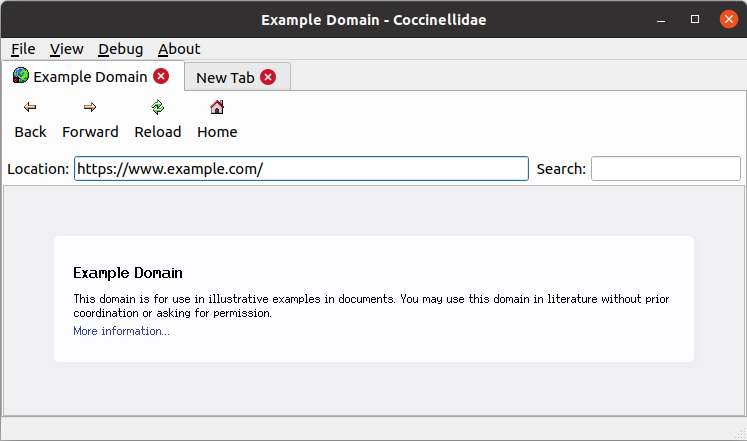
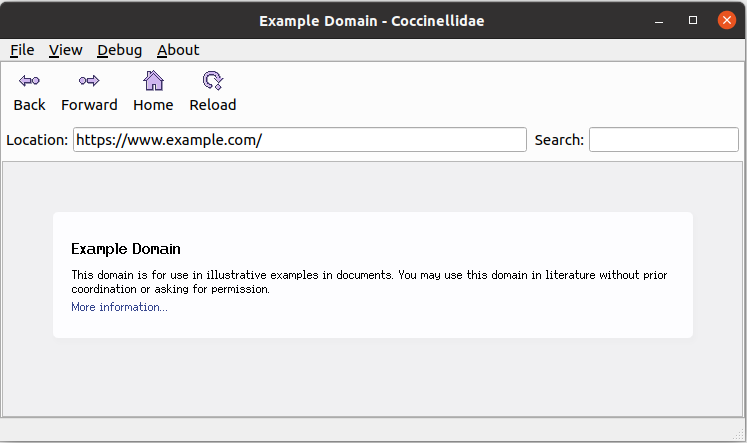
Open maximized, fix Ctrl+U, change some shortcuts to QKeySequence::StandardKey

diff --git a/Tab.cpp b/Tab.cpp
@@ -19,7 +19,7 @@ Tab::Tab(QMainWindow* window)
 {
     m_layout = new QBoxLayout(QBoxLayout::Direction::TopToBottom, this);
     m_layout->setContentsMargins(0, 0, 0, 0);
-    m_layout->setSpacing(0);
+    m_layout->setSpacing(0); //FIXME: Need to set spacing to 0 between QToolBar & QToolBar :^)
 
     m_view = new WebView;
     m_toolbar = new QToolBar;
@@ -40,27 +40,29 @@ Tab::Tab(QMainWindow* window)
 
     m_layout->addWidget(m_toolbar_buttons);
     m_layout->addWidget(m_toolbar);
+    m_layout->addSpacing(5);
     m_layout->addWidget(m_view);
 
-    auto back_icon_path = QString("%1/res/icons/16x16/go-back.png").arg(s_serenity_resource_root.characters());
-    auto forward_icon_path = QString("%1/res/icons/16x16/go-forward.png").arg(s_serenity_resource_root.characters());
-    auto home_icon_path = QString("%1/res/icons/16x16/go-home.png").arg(s_serenity_resource_root.characters());
-    auto reload_icon_path = QString("%1/res/icons/16x16/reload.png").arg(s_serenity_resource_root.characters());
+    auto back_icon_path = QString("../icons/back.png");
+    auto forward_icon_path = QString("../icons/forward.png");
+    auto home_icon_path = QString("../icons/home.png");
+    //auto reload_icon_path = QString("%1/res/icons/16x16/reload.png").arg(s_serenity_resource_root.characters());
+    auto reload_icon_path = QString("../icons/reload.png");
     m_back_action = make<QAction>(QIcon(back_icon_path), "Back");
-    m_back_action->setShortcut(QKeySequence("Alt+Left"));
+    m_back_action->setShortcut(QKeySequence(QKeySequence::Back)); // "Alt+Left"
     m_forward_action = make<QAction>(QIcon(forward_icon_path), "Forward");
-    m_forward_action->setShortcut(QKeySequence("Alt+Right"));
+    m_forward_action->setShortcut(QKeySequence(QKeySequence::Forward)); // "Alt+Right"
     m_home_action = make<QAction>(QIcon(home_icon_path), "Home");
     m_reload_action = make<QAction>(QIcon(reload_icon_path), "Reload");
-    m_reload_action->setShortcut(QKeySequence("Ctrl+R"));
+    m_reload_action->setShortcut(QKeySequence(QKeySequence::Refresh)); // "Ctrl+R"
 
     auto m_location_label = new QLabel("Location: ");
     auto m_search_label = new QLabel("  Search: ");
 
     m_toolbar_buttons->addAction(m_back_action);
     m_toolbar_buttons->addAction(m_forward_action);
-    m_toolbar_buttons->addAction(m_reload_action);
     m_toolbar_buttons->addAction(m_home_action);
+    m_toolbar_buttons->addAction(m_reload_action);
     m_toolbar->addWidget(m_location_label);
     m_toolbar->addWidget(m_location_edit);
     m_toolbar->addWidget(m_search_label);

diff --git a/BrowserWindow.cpp b/BrowserWindow.cpp
@@ -27,7 +27,7 @@ BrowserWindow::BrowserWindow(Core::EventLoop& event_loop)
     auto* menu = menuBar()->addMenu("&File");
 
     auto* new_tab_action = new QAction("New &Tab");
-    new_tab_action->setShortcut(QKeySequence("Ctrl+T"));
+    new_tab_action->setShortcut(QKeySequence(QKeySequence::AddTab)); // "Ctrl+N"
     menu->addAction(new_tab_action);
 
     auto* quit_action = new QAction("&Quit");
@@ -38,7 +38,7 @@ BrowserWindow::BrowserWindow(Core::EventLoop& event_loop)
 
     auto* view_source_action = new QAction("View &Source");
     view_source_action->setIcon(QIcon(QString("%1/res/icons/16x16/filetype-html.png").arg(s_serenity_resource_root.characters())));
-    view_source_action->setShortcut(QKeySequence("CTRL + U"));
+    view_source_action->setShortcut(QKeySequence("CTRL+U"));
     inspect_menu->addAction(view_source_action);
     QObject::connect(view_source_action, &QAction::triggered, this, [this] {
         if (m_current_tab) {
@@ -151,10 +151,14 @@ BrowserWindow::BrowserWindow(Core::EventLoop& event_loop)
     auto* about_menu = menuBar()->addMenu("&About");
 
     auto* help_action = new QAction("&Help");
+    help_action->setIcon(QIcon(QString("%1/res/icons/16x16/app-help.png").arg(s_serenity_resource_root.characters())));
+    help_action->setShortcut(QKeySequence(QKeySequence::HelpContents));
     about_menu->addAction(help_action);
 
     auto* about_action = new QAction("&About Coccinellidae");
     about_menu->addAction(about_action);
+
+
 
     QObject::connect(new_tab_action, &QAction::triggered, this, &BrowserWindow::new_tab);
     QObject::connect(quit_action, &QAction::triggered, this, &QMainWindow::close);

diff --git a/main.cpp b/main.cpp
@@ -21,7 +21,7 @@ ErrorOr<int> serenity_main(Main::Arguments arguments)
 
     String url;
     Core::ArgsParser args_parser;
-    args_parser.set_general_help("The Coccinellidae web browser :^)");
+    args_parser.set_general_help("The Coccinellidae web browser");
     args_parser.add_positional_argument(url, "URL to open", "url", Core::ArgsParser::Required::No);
     args_parser.parse(arguments);
 
@@ -30,8 +30,10 @@ ErrorOr<int> serenity_main(Main::Arguments arguments)
     QApplication app(arguments.argc, arguments.argv);
     BrowserWindow window(event_loop);
     window.setWindowTitle("Coccinellidae");
-    window.resize(800, 600);
-    window.show();
+    //window.resize(800, 600);
+    //window.show();
+    window.showMaximized();
+
 
     auto qt_event_loop_driver = Core::Timer::create_repeating(50, [&] {
         app.processEvents();

diff --git a/README.md b/README.md
@@ -7,11 +7,13 @@ This is a personal fork for my own enjoyment and learning :^)
 
 Hardcoded for qt5 until I get an environment that can run qt6.
 
-How does Coccinellidae differ from Ladybird?
-- [x] Separate search field (Default search engine Brave)
+### How does Coccinellidae differ from Ladybird?
+- [x] Search field (Default search engine Brave)
 - [x] Statusbar
 - [ ] Large fancy buttons
 - [ ] Tabs above content (not above toolbar)
+- [x] Starting maximized
+- [x] Platform independent shortcuts (QKeySequence::StandardKey)
 
 Menu:
 - [x] Inspect -> View
@@ -19,7 +21,8 @@ Menu:
 - [ ] About: Help
 - [ ] About: About Coccinellidae
 
-This is what I'm going for:
+### This is what I'm going for:
+
 ![Icons](meta/icons.png)
 
 Commits are a bit of a mess, contributions are accepted.
